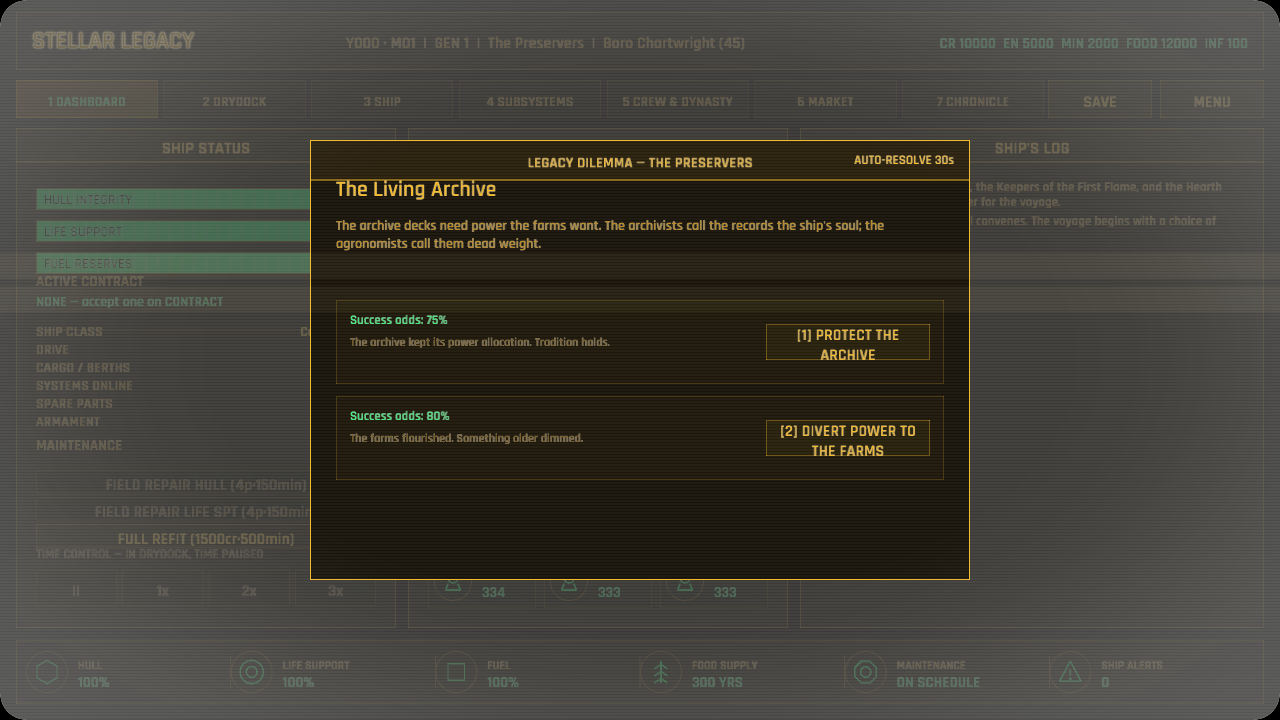
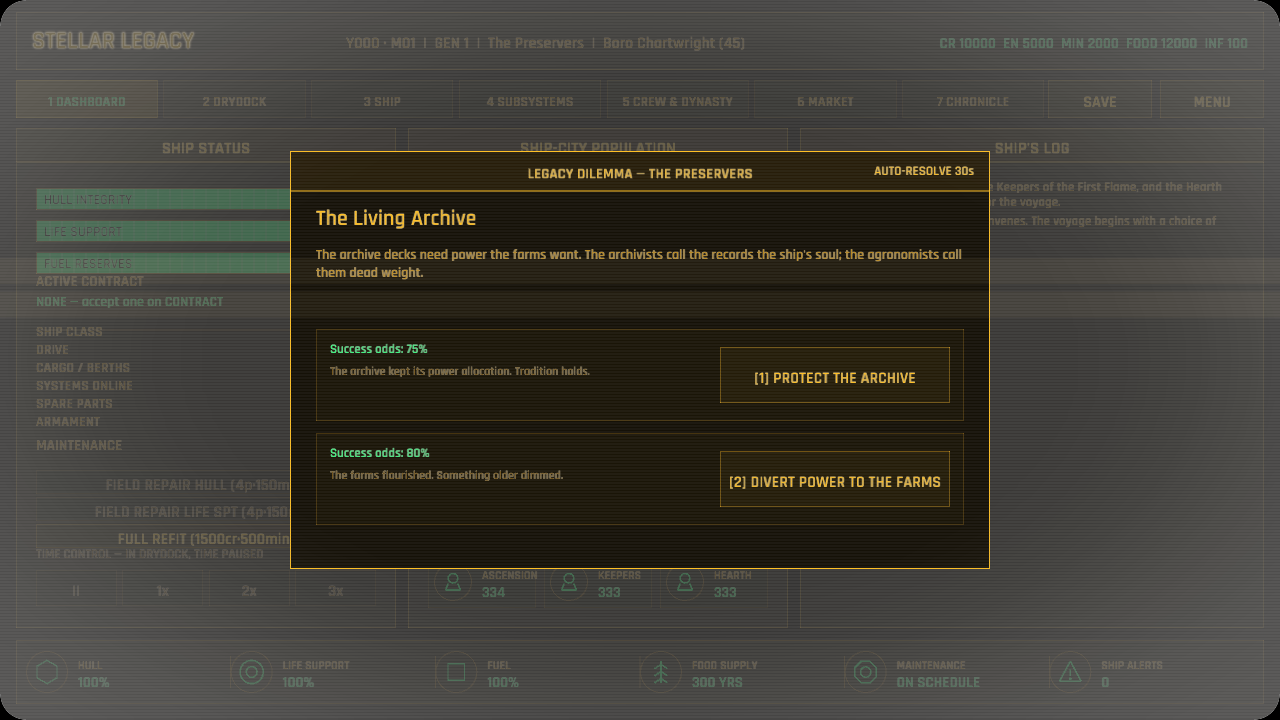
The council's choices stand clear of the title, each writ large enough to read (GDD 5.5 <-> 9)
Before: the dilemma/event title sat right on the header rule and read as
cramped, and the option buttons were small enough that a longer label —
"[2] DIVERT POWER TO THE FARMS" — wrapped onto two tight lines.

After: the title drops clear of the divider (content offset 30 -> 48).
The option buttons grow from 164x36 to 230x56 and the modal widens from
660 to 700, so every label sits on a single, well-padded line. Cards,
row stride, the description column, the impact-band baseline, and the
modal-height formula all follow so nothing collides.

Changed region(s): [[0.2188, 0.1833, 0.7812, 0.825], [0.5625, 0.4583, 0.7188, 0.55]]

diff --git a/src/ui/event_modal.rs b/src/ui/event_modal.rs
@@ -33,7 +33,9 @@ pub fn draw(ctx: &GameplayCtx<'_>, mouse: Vec2, actions: &mut Vec<UiAction>) {
         available.len(),
         term::alert(),
     );
-    let mut y = content.y + 30.0;
+    // Drop the title clear of the header divider — at the old offset its caps
+    // sat right on the rule and read as cramped.
+    let mut y = content.y + 48.0;
     draw_ui_text_ex(
         &template.title,
         content.x,
@@ -49,7 +51,7 @@ pub fn draw(ctx: &GameplayCtx<'_>, mouse: Vec2, actions: &mut Vec<UiAction>) {
 
     for (shown, &i) in available.iter().enumerate() {
         let outcome = &template.outcomes[i];
-        let card = Rect::new(content.x, y, content.w, 84.0);
+        let card = Rect::new(content.x, y, content.w, 92.0);
         draw_surface(
             card,
             &SurfaceStyle::new(Color::new(0.08, 0.065, 0.015, 1.0)).with_border(1.0, term::faint()),
@@ -58,7 +60,7 @@ pub fn draw(ctx: &GameplayCtx<'_>, mouse: Vec2, actions: &mut Vec<UiAction>) {
             &outcome.description,
             card.x + 14.0,
             card.y + 8.0,
-            card.w - 200.0,
+            card.w - 264.0,
             48.0,
             13.0,
             3.0,
@@ -73,19 +75,19 @@ pub fn draw(ctx: &GameplayCtx<'_>, mouse: Vec2, actions: &mut Vec<UiAction>) {
             draw_ui_text_ex(
                 &text,
                 card.x + 14.0,
-                card.y + 72.0,
+                card.y + 80.0,
                 TextStyle::new(12.0, color).params(),
             );
         }
         if term_button(
-            Rect::new(card.right() - 178.0, card.y + 24.0, 164.0, 36.0),
+            Rect::new(card.right() - 244.0, card.y + 18.0, 230.0, 56.0),
             &format!("[{}] {}", shown + 1, outcome.label.to_uppercase()),
             true,
             mouse,
         ) {
             actions.push(UiAction::ResolveEvent(i));
         }
-        y += 96.0;
+        y += 104.0;
     }
 }
 
@@ -109,7 +111,9 @@ pub fn draw_dilemma(ctx: &GameplayCtx<'_>, mouse: Vec2, actions: &mut Vec<UiActi
         dilemma.options.len(),
         term::primary(),
     );
-    let mut y = content.y + 30.0;
+    // Drop the title clear of the header divider — at the old offset its caps
+    // sat right on the rule and read as cramped.
+    let mut y = content.y + 48.0;
     draw_ui_text_ex(
         &dilemma.title,
         content.x,
@@ -127,7 +131,7 @@ pub fn draw_dilemma(ctx: &GameplayCtx<'_>, mouse: Vec2, actions: &mut Vec<UiActi
     y += 84.0;
 
     for (i, option) in dilemma.options.iter().enumerate() {
-        let card = Rect::new(content.x, y, content.w, 84.0);
+        let card = Rect::new(content.x, y, content.w, 92.0);
         draw_surface(
             card,
             &SurfaceStyle::new(Color::new(0.08, 0.065, 0.015, 1.0)).with_border(1.0, term::faint()),
@@ -161,21 +165,21 @@ pub fn draw_dilemma(ctx: &GameplayCtx<'_>, mouse: Vec2, actions: &mut Vec<UiActi
             &option.success.log,
             card.x + 14.0,
             card.y + 34.0,
-            card.w - 200.0,
+            card.w - 264.0,
             40.0,
             12.0,
             3.0,
             term::faint(),
         );
         if term_button(
-            Rect::new(card.right() - 178.0, card.y + 24.0, 164.0, 36.0),
+            Rect::new(card.right() - 244.0, card.y + 18.0, 230.0, 56.0),
             &format!("[{}] {}", i + 1, option.label.to_uppercase()),
             true,
             mouse,
         ) {
             actions.push(UiAction::ResolveDilemma(i));
         }
-        y += 96.0;
+        y += 104.0;
     }
 }
 
@@ -212,11 +216,13 @@ fn modal_frame(header: &str, countdown: i32, option_count: usize, accent: Color)
         Color::new(0.0, 0.0, 0.0, 0.75),
     );
 
-    let height = 248.0 + option_count as f32 * 96.0;
+    // Taller cards (bigger buttons) and the lower title need more room; a wider
+    // frame lets the option labels breathe on two comfortable lines.
+    let height = 210.0 + option_count as f32 * 104.0;
     let rect = Rect::new(
-        LOGICAL_WIDTH / 2.0 - 330.0,
+        LOGICAL_WIDTH / 2.0 - 350.0,
         (LOGICAL_HEIGHT - height) / 2.0,
-        660.0,
+        700.0,
         height,
     );
     let header_h = 40.0;
